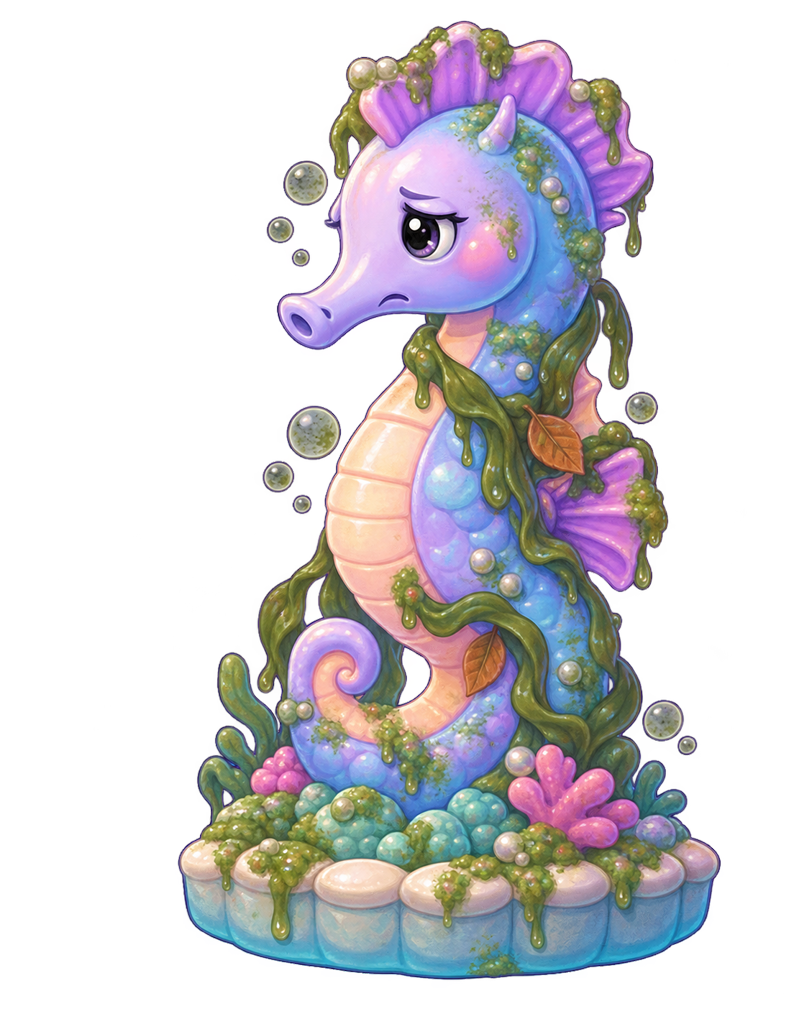
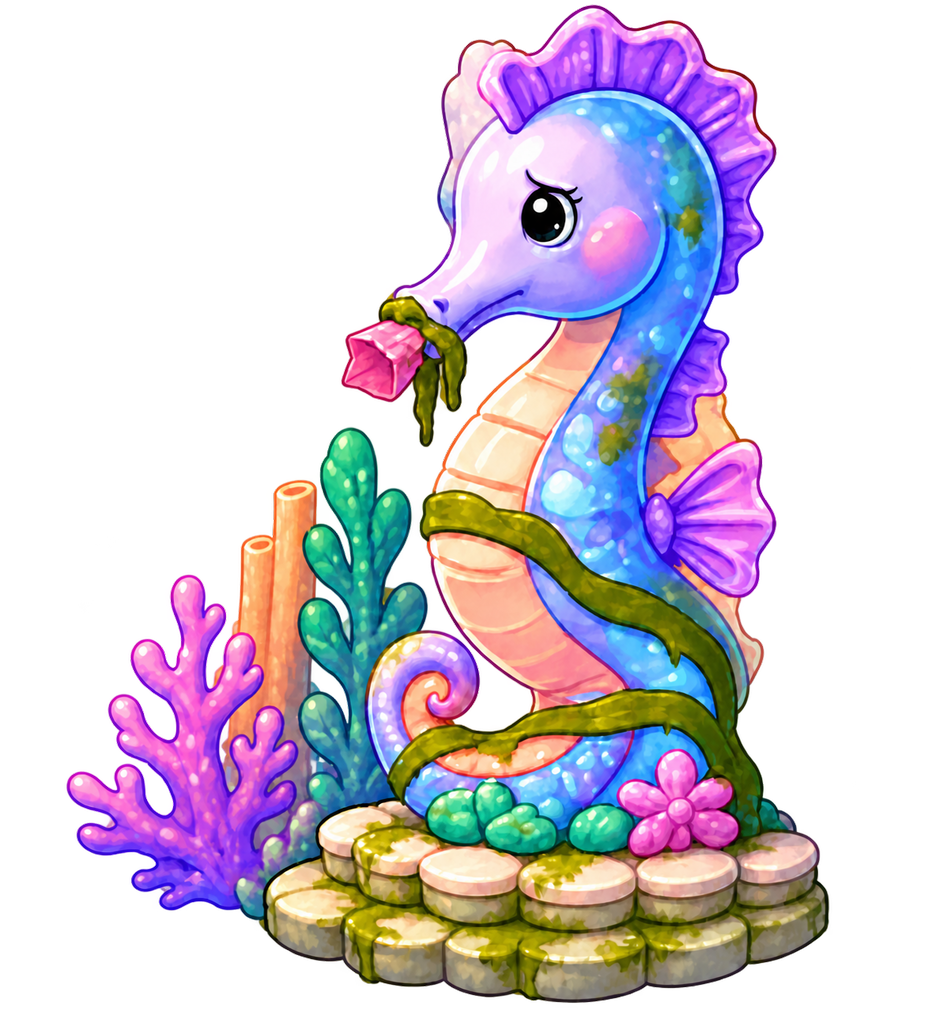
fix(day-one): restore canonical clogged seahorse

diff --git a/audit/DAY_ONE_DIRTY_POOL_STYLE_AUDIT_2026-08-22.md b/audit/DAY_ONE_DIRTY_POOL_STYLE_AUDIT_2026-08-22.md
@@ -1,0 +1,91 @@
+# Day One Dirty Pool style congruence audit — 2026-08-22
+
+## Verdict
+
+**Overall master-audit rating: 2/5 — major repair.**
+
+The Day One pool rescue is functional, narratively purposeful, one-finger
+readable, save-compatible, and implemented on the 2D Canvas. The corrected
+sick-state seahorse now preserves the established fountain identity, has no
+invented horn, and shows a soggy pink wrapper visibly blocking its mouth/nozzle.
+Those strengths do not make the generated art family congruent as a whole. The
+three pollution overlays and Rumi remain materially glossier, denser, and more
+halo-driven than the approved Mermaid Pool and Roshan anchors. Rumi also lacks
+an owner-approved identity source and authored rise/acting frames.
+
+Under the master audit rubric, a green technical probe or a clean isolated
+render cannot grant a high visual score. The pack therefore remains at 2/5
+until the named art and evidence gaps below are repaired and accepted in
+runtime context.
+
+## Authority and evidence
+
+- Rating meanings: `audit/MASTER_AUDIT_2026-08-09.md` §1.1.
+- Binding visual rules: `DL-VIS-01`–`DL-VIS-08`, `DL-READ-01`–`DL-READ-06`,
+  `DL-INT-02`–`DL-INT-03`, `DL-MOT-01`–`DL-MOT-07`, and `DL-SND-01`–`DL-SND-05`
+  in `design/06_COMPREHENSIVE_DESIGN_LANGUAGE.md`.
+- Approved identity/style anchors: the clean Mermaid Pool room, separated clean
+  seahorse-fountain card, clean fountain animation sheet, and approved Roshan
+  Canvas cutout. Protected sources were inspected but not modified.
+- `python tools/audit_lighting_images.py assets/castle/day_one_pool` scanned all
+  five runtime files: 0 unreadable, group luminance p50 0.23, dynamic range
+  0.72, 0% crushed, 0% blown, 23° hue shift, and 0.1% measured ink. The JSON
+  and generated Markdown evidence are stored beside this report.
+- All five runtime assets are RGBA with 0–255 alpha. The corrected seahorse is
+  936×1024. The algae mat touches the left and lower alpha bounds; that is a
+  padding/cutoff warning, not a style pass.
+- Exact Godot 4.7.1 import completed and
+  `scripts/probe_day_one_pool_cleanup.gd` passed every focused check, including
+  four ordered cleanup subjects, seahorse-last enforcement, dingy-lighting
+  contract, sequential touch ownership, finale, and teardown.
+- A fresh Castle run of `tools/audit_visual_design.py` was attempted with exact
+  Godot 4.7.1. Its runtime-facts subprocess reached the tool's 180-second
+  timeout and correctly downgraded runtime checks to `COVERAGE_GAP`. A later
+  static-only attempt also failed to return within a bounded review window and
+  was stopped. The current checkout contains unrelated local add-on changes;
+  this report makes no causal attribution and claims no fresh Castle visual
+  PASS.
+- The dedicated screenshot probe also mounted the dirty pool but stalled before
+  its first new capture. Existing earlier captures were not overwritten. The
+  focused gameplay result is valid, but new in-context screenshot acceptance
+  remains open.
+
+## Asset-by-asset findings
+
+| Asset/state | Rating | Congruent strengths | Blocking or material gaps |
+|---|---:|---|---|
+| Approved clean Mermaid Pool room | 4/5 anchor | High-key aqua/lavender/cream field; child-readable pool, waterfall, floats, and established seahorse fountain | Existing owner/device acceptance remains outside this pool-specific review |
+| `pool_algae_trash.png` | 2/5 | Pollution reads immediately; wrapper and harmless cup are recognizable; broad single-tap footprint | Glossy wet rendering, dense distributed highlights, dark/colored halo, too many equally weighted details, and alpha touching two canvas edges conflict with `DL-VIS-01`–`05` and calm phone-size grouping |
+| `waterfall_growth.png` | 2/5 | Tall silhouette clearly blocks the waterfall and supports truthful cleaning | Monolithic dense curtain, repeated specular droplets, photographic/slimy microtexture, dark internal channels, and weak two-or-three-band simplification diverge from the matte storybook anchor |
+| `pool_rim_grime.png` | 2/5 | Distinct from the pool mat; bottle cap, scraps, ribbon, and sponge communicate trash | PBR-like bubbles/gloss, broad colored halo, dense object scatter, and weak quiet-negative-space control compete with the intended next tap |
+| Corrected `seahorse_sick.png` | 3/5 | Same fountain species, long snout, eye placement, crest, belly, curl, coral/paver base, palette, and pose; no horn; wrapper visibly lodged in mouth/nozzle; sympathetic and child-safe; real alpha | Still somewhat more saturated and highlight-dense than the clean rest card; new settled runtime capture, smallest-phone squint review, owner acceptance, and clean/dirty cross-state identity review remain open |
+| `rumi_violet.png` | 2/5 | Full-body violet mermaid silhouette and grateful wave are readable | Generic high-gloss big-eye character rendering, dense sparkling scales/hair, heavy violet aura, and value treatment do not match Roshan's smaller matte/cel-painted anchor. No canonical Rumi identity source exists in the repository. One translated static cutout does not satisfy an authored animated rise under `DL-MOT-07`; exact Rumi speech is also missing under `DL-SND-01`/`03` |
+| Ordered cleanup composition | 3/5 | One live target at a time, direct pointer, truthful state removal, Roshan remains visible, seahorse is last, and lighting/reward progression is clear | The three pollution assets share one glossy green visual mass; fresh runtime capture coverage is open; the finale's static Rumi card and generic celebration voice keep it below strong |
+
+## Rule-level summary
+
+| Rule family | Result | Reason |
+|---|---|---|
+| True 2D / runtime size | **Pass for this feature** | Canvas nodes and RGBA textures; all runtime images are at or below a 1024px longest edge |
+| Identity preservation | **Pass for corrected seahorse; open/fail for Rumi** | Seahorse now derives from the clean fountain authority. Rumi has no canonical identity authority and reads as a generic newly invented character |
+| Shape, contour, value, materials | **Fail for pack** | Pollution and Rumi use dense glossy rendering, colored halos, and microdetail rather than calm clusters and broad matte value bands |
+| Child-readable hierarchy | **Workable** | Sequential targets and pointer are strong, but dense equal-weight details weaken the phone squint test |
+| Truthful interaction and ordered motion | **Pass functionally** | Cleaning removes the visible state and the waterfall/light finale follows completion |
+| Authored character motion | **Fail for Rumi** | Static cutout translation/scale/fade is feedback motion, not authored animated rise/acting frames |
+| Non-reader audio | **Coverage gap** | The objective path is visually cued, but Rumi's exact thank-you/introduction recording does not exist; caption plus generic cheer is not a complete substitute |
+| Runtime/owner/device evidence | **Coverage gap** | Focused probe is green; new full runtime captures, M11/phone, child, and owner acceptance are absent |
+
+## Bounded repair order
+
+1. Keep the corrected seahorse and validate its dirty/clean identity in a fresh
+   runtime capture at 1280×720 and smallest-phone scale.
+2. Regenerate only the three pollution overlays against the clean pool anchor:
+   matte broad bands, two or three calm clusters, restrained wet accents, clean
+   plum/indigo contour, no aura/vignette, and safe alpha padding.
+3. Do not regenerate Rumi again from prose alone. Obtain or nominate an
+   owner-approved Rumi identity reference, then produce a small authored 2D
+   rise/thank-you state set in the same character family as approved Roshan.
+4. Add an authorized exact Rumi thank-you/introduction recording without
+   modifying or substituting protected family voices.
+5. Re-run import, focused/passive/full probes, fresh Castle visual facts, phone
+   captures, and owner review. Only that evidence can raise the overall rating.

diff --git a/assets_src/imagegen/day_one_pool_2026-08-22/PROVENANCE.md b/assets_src/imagegen/day_one_pool_2026-08-22/PROVENANCE.md
@@ -54,16 +54,41 @@ or 3D rendering.
 
 ### `seahorse_sick_native.png`
 
-Use case: precise-object-edit. Image 1 is the exact approved seahorse fountain
-identity reference; Image 2 is the room style reference. Create the same
-lavender-aqua seahorse fountain in a clearly sick, clogged state. Preserve its
-species, crest, snout, curled tail, proportions, identity colors,
-pearl-and-coral pedestal, outline, and three-quarter pose. Remove the healthy
-water stream. Add a gentle tired expression, muted color, olive seaweed around
-belly and tail, soft algae on crest and pedestal, two leaves, and dull murky
-bubbles. Keep the face visible, sympathetic, and child-safe. Full-body genuine
-transparent cutout; no redesign, extra limbs, injury, medicine, text, logo,
-watermark, photorealism, or 3D rendering.
+Use case: precise-object-edit. Image 1 is the sole identity, silhouette,
+proportions, palette, material, outline, viewing-angle, pedestal, and
+character-design authority for the existing Mermaid Pool seahorse fountain;
+Image 2 supplies only its larger room context and diffuse storybook lighting.
+Render that exact established lavender-and-aqua fountain in one dirty, clogged,
+sick-looking state. Preserve the long narrow snout, round black eye placement,
+lavender scalloped crest, small side fin, aqua-lavender body, cream segmented
+belly, tightly curled tail, pink-and-aqua coral base, pearl-paver pedestal,
+proportions, and upright three-quarter pose. Remove only the clean water stream.
+One clearly visible soggy crumpled pink paper wrapper is wedged sideways in and
+protrudes from the mouth/nozzle, with a short soft olive seaweed strand tangled
+around it; the trash must read instantly at phone size as the cause of the clog
+and not as a tongue, wound, food, sharp object, cigarette, or body part. Limit
+growth to three calm clusters: algae on part of the crest/back, two broad
+seaweed ribbons around belly/tail, and grime on the pedestal. Preserve the
+face, full silhouette, belly, curl, coral base, and pedestal. Match the approved
+matte high-key 2D storybook/cel painting: broad rounded masses, two or three
+broad value bands, clean deep-indigo/plum contours, sparse interior lines,
+diffuse front-above lighting, and restrained wet accents. Exactly one complete
+cutout on genuine alpha; no redesigned living seahorse, water stream, extra
+animal/limbs/horn/eyelashes/jewelry, background, floor, shadow, glow, aura,
+vignette, text, logo, watermark, PBR texture, photographic algae, horror, or
+injury.
+
+The initial 2026-08-22 sick-state master redesigned the fountain as a different
+living seahorse and omitted the required mouth blockage. It is rejected and
+retained only as evidence at
+`rejected/seahorse_sick_wrong_identity_native.png`; it is not a runtime
+fallback. The corrected generation initially returned a baked checkerboard, so
+a background-extraction-only pass removed that checkerboard while preserving
+the accepted subject pixels. A later candidate preserved the mouth blockage but
+invented a small forehead horn; that candidate was rejected, the horn alone was
+removed against the canonical clean fountain, and the resulting checkerboard
+was again extracted without admitting it to runtime. The selected hornless
+master is verified RGBA with alpha extrema 0–255.
 
 ### `rumi_violet_native.png`
 
@@ -85,7 +110,7 @@ tail, legs, text, logo, watermark, photorealism, or 3D rendering.
 | `pool_algae_trash_native.png` | `assets/castle/day_one_pool/pool_algae_trash.png` | 1536×1024 to 1024×682 RGBA |
 | `waterfall_growth_native.png` | `assets/castle/day_one_pool/waterfall_growth.png` | portrait to 1024px high RGBA |
 | `pool_rim_grime_native.png` | `assets/castle/day_one_pool/pool_rim_grime.png` | 1536×1024 to 1024×682 RGBA |
-| `seahorse_sick_native.png` | `assets/castle/day_one_pool/seahorse_sick.png` | 1104×1425 to 794×1024 RGBA |
+| `seahorse_sick_native.png` | `assets/castle/day_one_pool/seahorse_sick.png` | 1199×1312 to 936×1024 RGBA |
 | `rumi_violet_native.png` | `assets/castle/day_one_pool/rumi_violet.png` | 1024×1536 to 682×1024 RGBA |
 
 The first waterfall-growth attempt returned an RGB checkerboard instead of

diff --git a/ASSET_LICENSES.md b/ASSET_LICENSES.md
@@ -262,7 +262,7 @@
 | audit/ember_runtime_2026-07-21/** | Godot 4.4.1 Forward Mobile Ember Fortress runtime evidence | **Project-generated review art** | `scripts/probe_ember_art.gd` | Ten representative Speedy frames and one contact sheet; captured 2026-07-21. |
 | assets_src/concepts/ember_fortress_claude_2026-07-22/*.png | Original Ember Fortress Blender modeling boards generated with OpenAI built-in image generation from the project-authored 42-role audit and scale contracts; no input image or external source art | **Project-generated review/model-reference art** | `assets_src/concepts/ember_fortress_claude_2026-07-22/PROMPTS.md`; `EMBER_FORTRESS_2D_CONCEPT_AUDIT_2026-07-22.md`; `CLAUDE_EMBER_FORTRESS_BLENDER_HANDOFF_2026-07-22.md` | Six selected boards normalized to a 1024px longest edge plus one derived 1024px contact sheet; raw masters retained only in local provenance cache; review/model-reference input for Claude's Blender work; no runtime asset replaced or APK-exported; generated 2026-07-22. |
 | assets_src/concepts/ember_fortress_claude_2026-07-22/expansion_40/*.png | Forty original individual Ember Fortress enrichment cards generated with OpenAI built-in image generation using the project-generated Ember contact sheet as style reference only | **Project-generated review/model-reference art** | `assets_src/concepts/ember_fortress_claude_2026-07-22/expansion_40/PROMPTS.md`; `EMBER_FORTRESS_EXPANSION_40_AUDIT_2026-07-22.md`; `CLAUDE_EXPANSION_40_MANIFEST.csv` | Forty 1024px individual modeling cards plus four derived 1024×768 contact sheets; original generic volcanic fantasy designs; no external or protected source art; review/model-reference only, no runtime replacement or APK export; generated 2026-07-22. |
-| assets/castle/day_one_pool/*.png; assets_src/imagegen/day_one_pool_2026-08-22/*.png | OpenAI built-in image generation using the approved project-owned Mermaid Pool plate, separated fixtures, and Roshan cutout as style/identity references | **Project-generated derivative of © Mermaid Roshan LLC — all rights reserved** | `assets_src/imagegen/day_one_pool_2026-08-22/PROVENANCE.md` | Five selected transparent source masters: pool algae/trash, waterfall growth, rim grime, sick-state seahorse, and the new distinct Rumi character. Runtime copies normalized non-destructively with FFmpeg 8.1.2 to a maximum 1024px edge with RGBA preserved; protected references and clean runtime originals remain unchanged; generated 2026-08-22. |
+| assets/castle/day_one_pool/*.png; assets_src/imagegen/day_one_pool_2026-08-22/*.png; assets_src/imagegen/day_one_pool_2026-08-22/rejected/*.png | OpenAI built-in image generation using the approved project-owned Mermaid Pool plate, separated fixtures, and Roshan cutout as style/identity references | **Project-generated derivative of © Mermaid Roshan LLC — all rights reserved** | `assets_src/imagegen/day_one_pool_2026-08-22/PROVENANCE.md` | Five selected transparent source masters: pool algae/trash, waterfall growth, rim grime, the corrected clogged seahorse fountain with a soggy wrapper visibly lodged in its mouth/nozzle, and the new distinct Rumi character. The superseded wrong-identity seahorse is retained under the source `rejected/` evidence folder and is never a runtime fallback. Runtime copies normalized non-destructively with FFmpeg 8.1.2 to a maximum 1024px edge with RGBA preserved; protected references and clean runtime originals remain unchanged; generated and corrected 2026-08-22. |
 
 ## Individual credits (detail)
 - **chuck_bark.ogg / chuck.ogg** — 'Free Dog Bark' by DRAGON-STUDIO via Pixabay

diff --git a/audit/day_one_pool_lighting_image_audit_2026-08-22.md b/audit/day_one_pool_lighting_image_audit_2026-08-22.md
@@ -1,0 +1,7 @@
+# Lighting image audit (generated)
+
+5 files scanned, 0 unreadable.
+
+| group | n | lum p50 | dyn range | crushed% | blown% | vert bias | horiz bias | hue shift | ink% |
+|---|--:|--:|--:|--:|--:|--:|--:|--:|--:|
+| `assets/castle/day_one_pool` | 5 | 0.23 | 0.72 | 0 | 0.0 | 0.03 | 0.03 | 23 | 0.1 |
